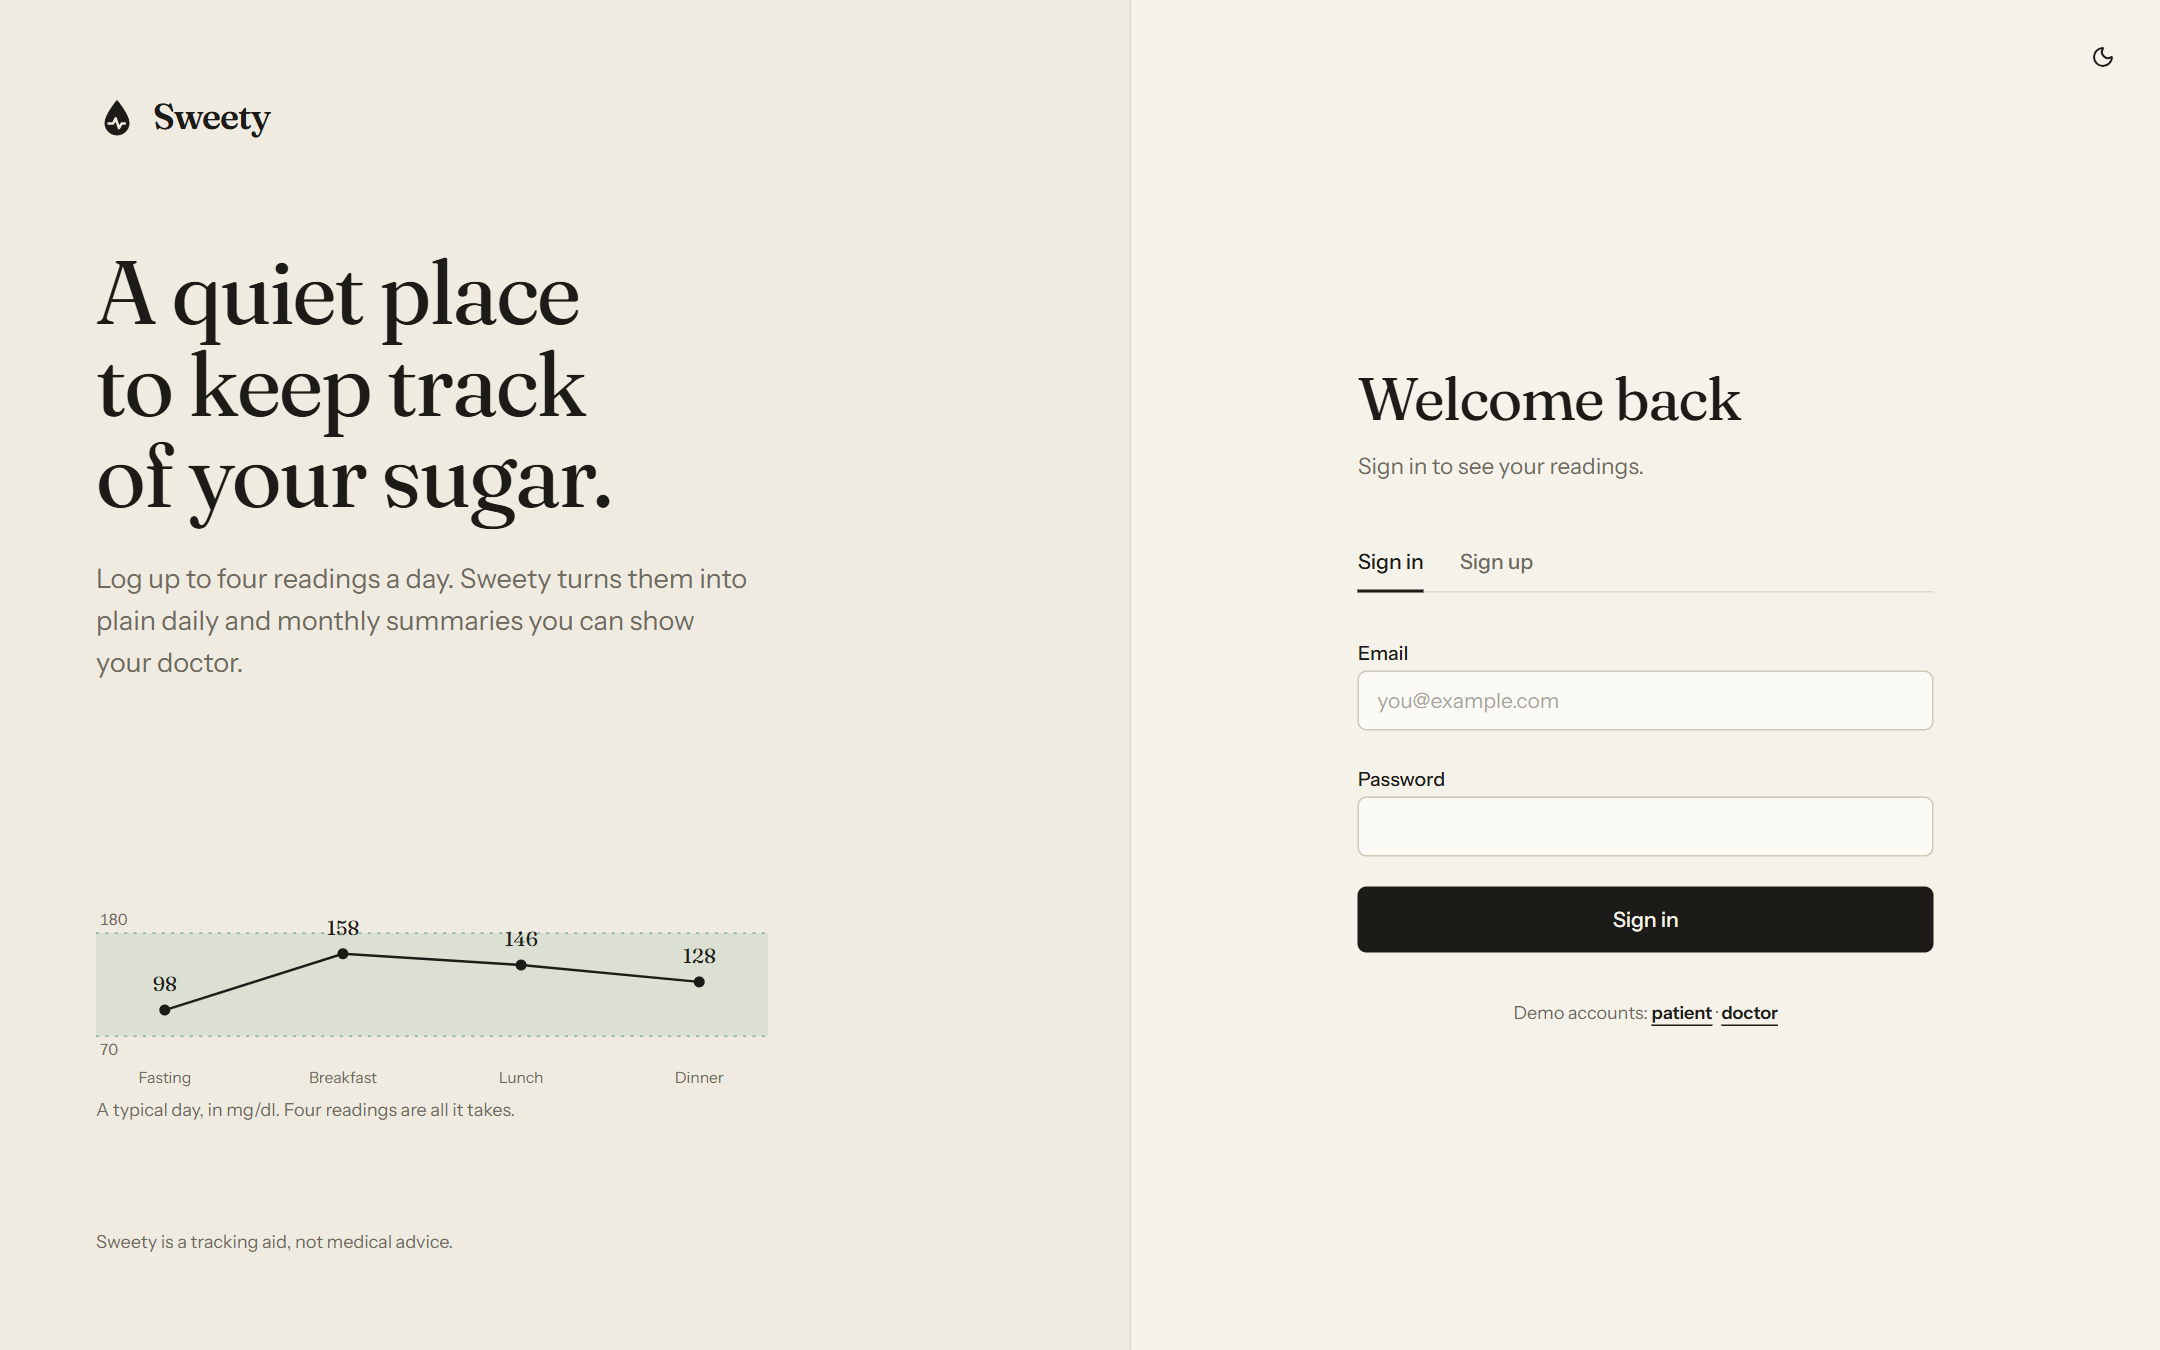
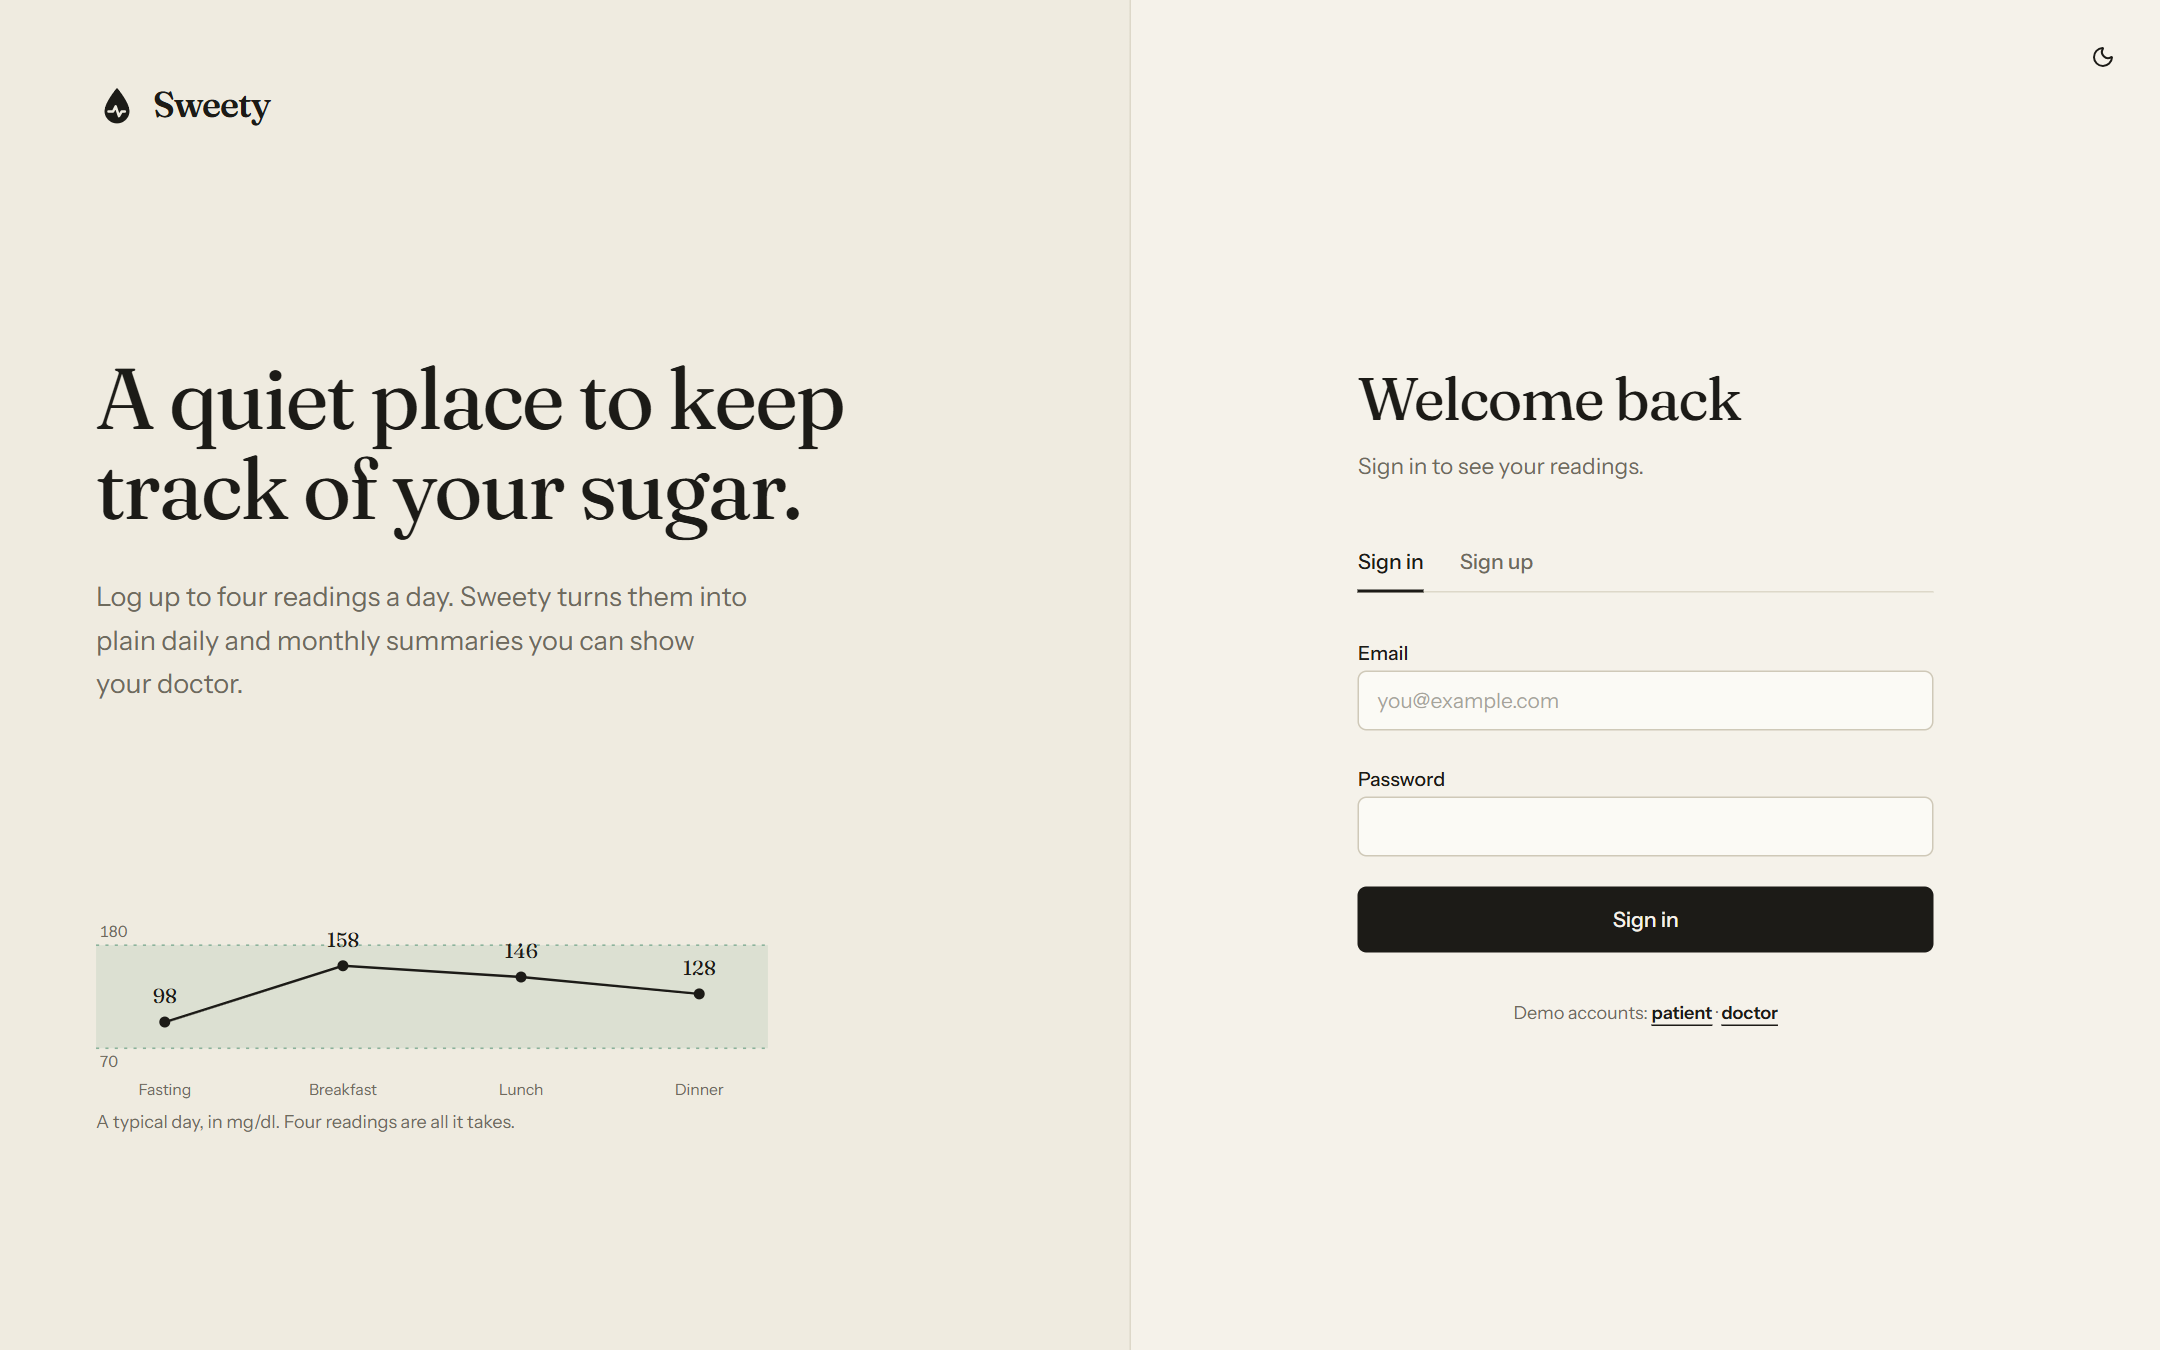
Remove medical-advice disclaimer from login screen and README; refresh screenshots

diff --git a/client/src/pages/AuthPage.jsx b/client/src/pages/AuthPage.jsx
@@ -81,14 +81,13 @@ export default function AuthPage() {
 
   return (
     <div className="grid min-h-dvh lg:grid-cols-[1.1fr_1fr]">
-      <div className="hidden flex-col justify-between gap-16 border-r bg-paper-2 px-16 py-14 lg:flex">
+      <div className="hidden flex-col gap-16 border-r bg-paper-2 px-16 py-14 lg:flex">
         <Logo />
-        <div className="max-w-lg py-4">
+        <div className="my-auto max-w-lg py-4">
           <h2 className="text-[clamp(2.75rem,4vw,3.75rem)] leading-[1.04]">A quiet place to keep track of your sugar.</h2>
           <p className="mt-7 max-w-md text-lg leading-relaxed text-muted-foreground">Log up to four readings a day. Sweety turns them into plain daily and monthly summaries you can show your doctor.</p>
           <div className="mt-14 hidden [@media(min-height:800px)]:block"><DaySketch /></div>
         </div>
-        <p className="text-xs text-muted-foreground">Sweety is a tracking aid, not medical advice.</p>
       </div>
 
       <div className="flex flex-col">

diff --git a/README.md b/README.md
@@ -122,7 +122,7 @@ docs/    screenshots
 - **Whole numbers only:** decimals such as `100.5` are rejected with "Value must be a whole number between 40 and 600 mg/dl.", out-of-range values with the exact message from the brief.
 - **Rule order:** if a day already has 4 readings the "only 4 readings per day" message wins over the "slot already used" one. Since there are exactly 4 slots, the cap is also guaranteed by a unique `(user, date, slot)` constraint; creation is serialised with a per-user-per-day advisory lock so concurrent requests can't bypass it.
 - **Doctor role:** anyone can choose "Doctor" at sign-up (there is no verification). Access is **patient-initiated**: a doctor sees only patients who added the doctor's email under *Care team*, and can revoke it any time. Doctors have read-only access.
-- **Reference range** (70–180 mg/dl, used for the Low / In range / High badges and chart band) is a common general guideline shown for convenience only; it is not medical advice and is not configurable yet.
+- **Reference range** (70–180 mg/dl, used for the Low / In range / High badges and chart band) is a common general guideline shown for convenience only and is not configurable yet.
 - **bcrypt:** uses `bcryptjs` (pure JS, same hash format) to avoid native build problems on Windows.
 - **Reminders** are only *logged* (no email/SMS is sent). They need Redis; without `REDIS_URL` the job and cache are silently disabled.
 - Tokens are stored in `localStorage` for simplicity.
